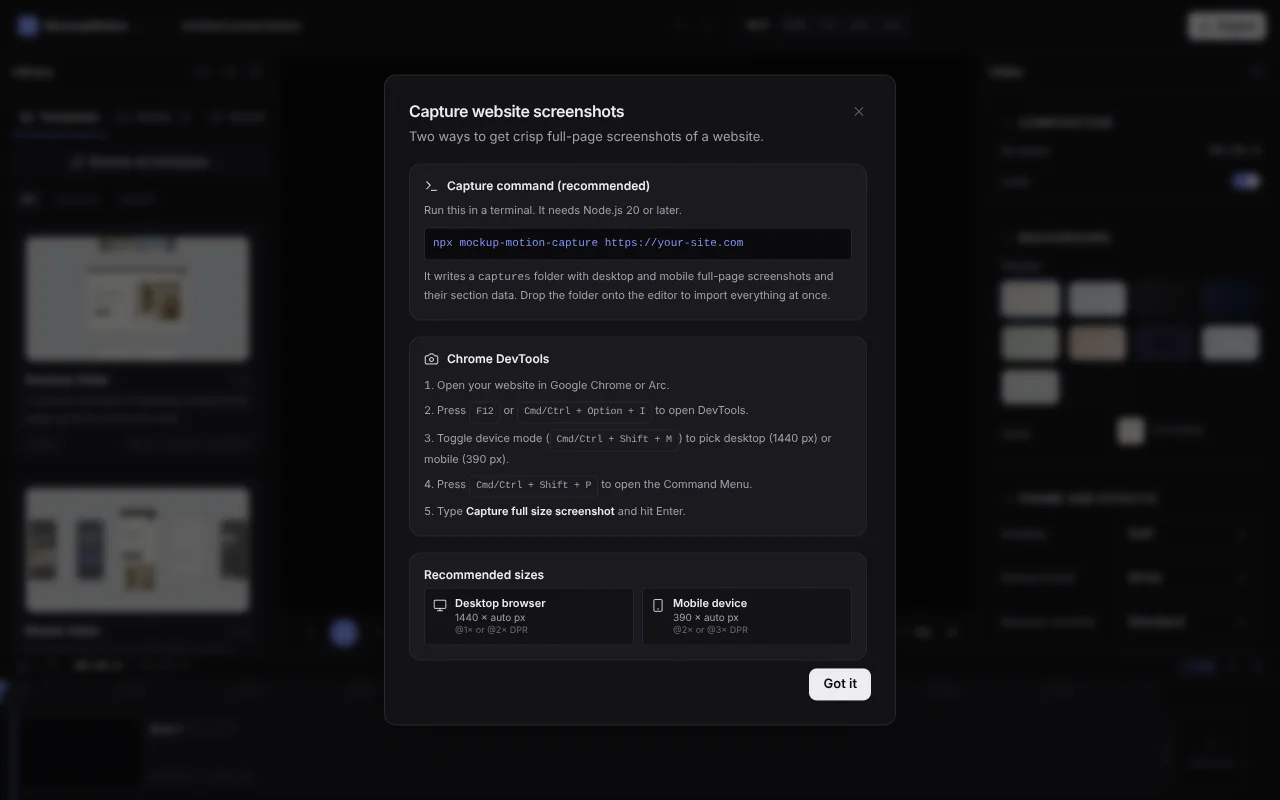
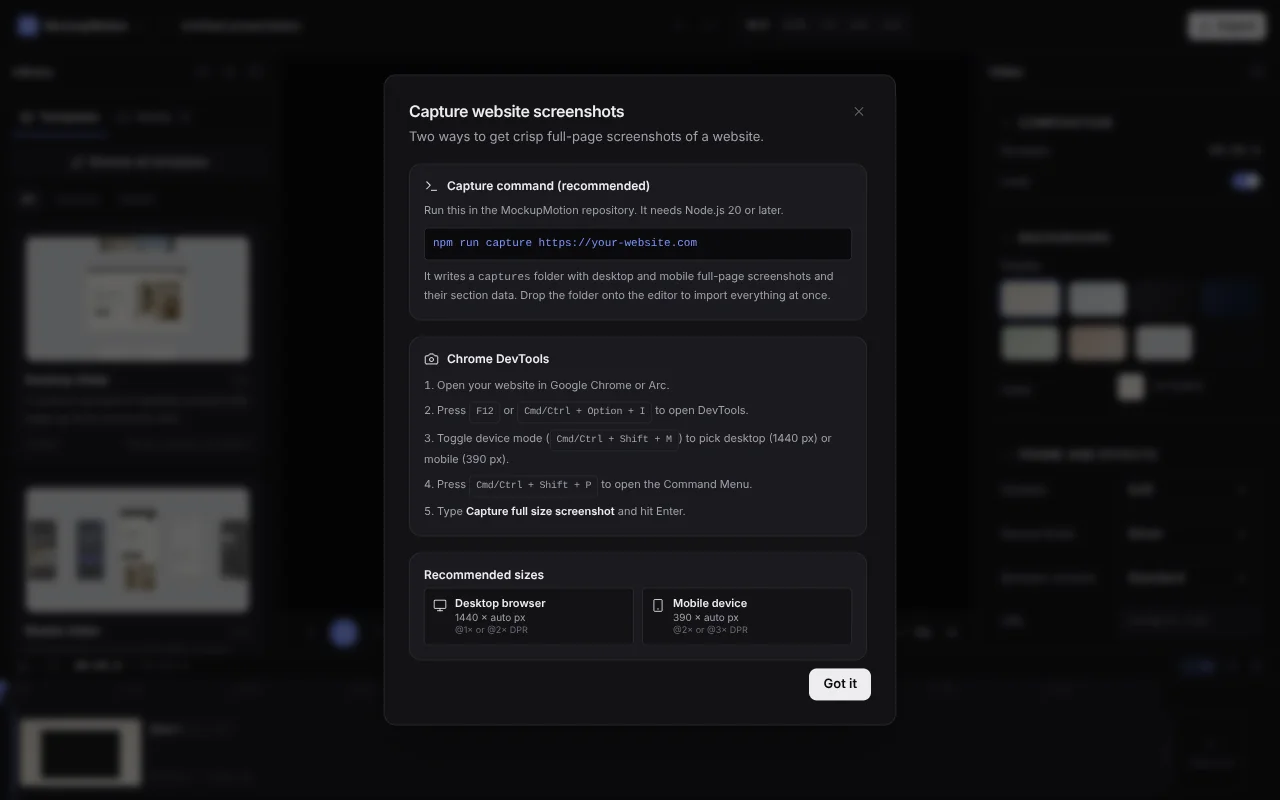
Capture: use npm run capture; publishing is deferred
The owner decided not to publish the package for now (personal use). The
capture dialog shows npm run capture, run from the repository, and nothing
claims npx mockup-motion-capture works today. The package README keeps the
publish steps under "Publishing (not done yet)".

Claude-Session: https://claude.ai/code/session_01JKdPCagifuYUcVoTBFb9du

diff --git a/src/editor/dialogs/CaptureHelpModal.tsx b/src/editor/dialogs/CaptureHelpModal.tsx
@@ -23,10 +23,10 @@ export const CaptureHelpModal: React.FC<CaptureHelpModalProps> = ({ open, onOpen
               <span>Capture command (recommended)</span>
             </div>
             <p className="text-[11px] text-[var(--color-text-2)] leading-relaxed">
-              Run this in a terminal. It needs Node.js 20 or later.
+              Run this in the MockupMotion repository. It needs Node.js 20 or later.
             </p>
             <div className="p-2 rounded bg-black/60 font-mono text-[11px] text-[var(--color-accent)] select-all border border-[var(--color-line)]">
-              npx mockup-motion-capture https://your-site.com
+              npm run capture https://your-website.com
             </div>
             <p className="text-[11px] text-[var(--color-text-2)] leading-relaxed">
               It writes a <span className="font-mono">captures</span> folder with desktop and mobile

diff --git a/scripts/capture.ts b/scripts/capture.ts
@@ -1,7 +1,7 @@
 /**
- * The capture lives in the `mockup-motion-capture` package (packages/capture), which anyone can
- * run with `npx mockup-motion-capture <url>`. `npm run capture` runs the same package, and this
- * module re-exports it for the repo's scripts and tests.
+ * The capture lives in the `mockup-motion-capture` package (packages/capture). `npm run capture`
+ * runs it, and this module re-exports it for the repo's scripts and tests. The package isn't on
+ * npm yet; its README has the publish steps.
  */
 export {
   captureBaseNames,

diff --git a/src/assets/capture-json.ts b/src/assets/capture-json.ts
@@ -35,7 +35,7 @@ export function parseCaptureJson(name: string, text: string): CaptureJson {
   } catch {
     throw new Error(`${name}: this file isn't valid JSON.`);
   }
-  const notCapture = new Error(`${name}: this isn't a capture file from mockup-motion-capture.`);
+  const notCapture = new Error(`${name}: this isn't a capture file from npm run capture.`);
   if (!raw || typeof raw !== "object") throw notCapture;
   const r = raw as Record<string, unknown>;
   if (

diff --git a/tests/capture-json.test.ts b/tests/capture-json.test.ts
@@ -29,7 +29,7 @@ describe("capture JSON (Responsive Scroll R02)", () => {
       "bad.json: this file isn't valid JSON.",
     );
     expect(() => parseCaptureJson("other.json", '{"name":"x"}')).toThrow(
-      "other.json: this isn't a capture file from mockup-motion-capture.",
+      "other.json: this isn't a capture file from npm run capture.",
     );
   });
 

diff --git a/docs/plan/follow-ups.md b/docs/plan/follow-ups.md
@@ -67,6 +67,7 @@ PR links: [F00 #2](https://github.com/jesseleechan/mockup-motion/pull/2), [F03 #
 | Vite warns in dev that the demo JSON under `public/demo/` (`manifest.json`, `sections*.json`) can't be imported from JavaScript; dev and build work. Moving the imported JSON under `src/` would silence it.                                            | Responsive Scroll R02 (#52) |
 | The mobile capture files are always named `@2x` (`<host>-mobile-390@2x.png`), even with `--scale 3`. The JSON's `scale` is right, but the name misleads. Naming them after the real scale changes the capture format the editor and the demo files use. | Capture CLI                 |
 | `packages/capture/package.json` has no `license`, and neither does the repo. Choose one before publishing `mockup-motion-capture`.                                                                                                                      | Capture CLI                 |
+| Publishing `mockup-motion-capture` to npm is deferred (owner, 19 Oct 2026: personal use for now); the package is ready, see packages/capture/README.md.                                                                                                 | Capture CLI                 |
 
 ## Tests and CI
 
@@ -81,7 +82,7 @@ PR links: [F00 #2](https://github.com/jesseleechan/mockup-motion/pull/2), [F03 #
 | Safari and Firefox have never been run. They are out of scope for now (decided 7 Oct 2026); the steps are in [`browser-matrix.md`](browser-matrix.md).                                                                                                                                                                                                                                                                                                                                                                                                                                                                                                                                                                                                                                                                                                                                                                                                                                                                                                                                                                                                                                                                                                                                                                          | F14                                                                |
 | The last two quality bar §8 items are not verified for any template: no visible pop over 3 loops, and no banding or shimmer in a 1080p export. See [`quality-review.md`](quality-review.md).                                                                                                                                                                                                                                                                                                                                                                                                                                                                                                                                                                                                                                                                                                                                                                                                                                                                                                                                                                                                                                                                                                                                    | F14                                                                |
 | `main` is not Prettier-clean: `npm run format` rewrites 18 files under `src/` and `tests/` (for example `tests/sections.test.ts`), and CI doesn't run `npm run format:check`.                                                                                                                                                                                                                                                                                                                                                                                                                                                                                                                                                                                                                                                                                                                                                                                                                                                                                                                                                                                                                                                                                                                                                   | P00 ([#22](https://github.com/jesseleechan/mockup-motion/pull/22)) |
-| The e2e suite is 169 tests in 31 files (`npx playwright test --list --project=chromium`, 19 Oct 2026), about 43 runner-minutes per full run. Audit it against CLAUDE.md "Tests": remove tests that duplicate unit tests or visual stills, fold the old wave specs (`wave5`, `spike`, `polish`) into the specs they belong to, and read template counts from the registry instead of literals (`assets.spec.ts`: "all 5 built-in templates are lab fixtures"). The owner approves the list of removals before any test is deleted.                                                                                                                                                                                                                                                                                                                                                                                                                                                                                                                                                                                                                                                                                                                                                                                                                                                | Test rules (19 Oct 2026)                                           |
+| The e2e suite is 169 tests in 31 files (`npx playwright test --list --project=chromium`, 19 Oct 2026), about 43 runner-minutes per full run. Audit it against CLAUDE.md "Tests": remove tests that duplicate unit tests or visual stills, fold the old wave specs (`wave5`, `spike`, `polish`) into the specs they belong to, and read template counts from the registry instead of literals (`assets.spec.ts`: "all 5 built-in templates are lab fixtures"). The owner approves the list of removals before any test is deleted.                                                                                                                                                                                                                                                                                                                                                                                                                                                                                                                                                                                                                                                                                                                                                                                               | Test rules (19 Oct 2026)                                           |
 
 ## Done since it was reported
 

diff --git a/packages/capture/README.md b/packages/capture/README.md
@@ -2,11 +2,13 @@
 
 Captures a website for [MockupMotion](https://github.com/jesseleechan/mockup-motion): desktop and mobile full-page screenshots, each with a JSON file of where the page's sections are. MockupMotion uses the section data to frame and scroll the screenshots.
 
+From the MockupMotion repository:
+
 ```sh
-npx mockup-motion-capture https://your-site.com
+npm run capture -- https://your-site.com
 ```
 
-It needs Node 20 or later and no other setup when Chrome or Edge is installed.
+It needs Node 20 or later and no other setup when Chrome or Edge is installed. The package isn't published to npm yet (see [Publishing](#publishing-not-done-yet)).
 
 ## Output
 
@@ -42,7 +44,7 @@ Drop the `captures` folder onto the editor. The screenshots are imported with th
 ## Options
 
 ```
-npx mockup-motion-capture <url> [options]
+npm run capture -- <url> [options]
 
   --out <dir>           Output directory (default: captures/)
   --desktop <width>     Desktop viewport width (default: 1440)
@@ -74,16 +76,16 @@ npx playwright@<version> install chromium
 To use a specific Chromium binary, set `PW_CHROMIUM_EXECUTABLE` to its path:
 
 ```sh
-PW_CHROMIUM_EXECUTABLE=/path/to/chrome npx mockup-motion-capture https://your-site.com
+PW_CHROMIUM_EXECUTABLE=/path/to/chrome npm run capture -- https://your-site.com
 ```
 
-## Publishing
+## Publishing (not done yet)
 
-For the package owner. These steps publish from `packages/capture` in the MockupMotion repo.
+The package isn't on npm: publishing is deferred while MockupMotion is for personal use. Once it is published, anyone can run `npx mockup-motion-capture https://your-site.com` without the repo. These steps publish from `packages/capture` in the MockupMotion repo.
 
 1. Create an account on [npmjs.com](https://www.npmjs.com/signup) if you don't have one, and turn on two-factor authentication.
 2. Log in from the terminal: `npm login`, then check with `npm whoami`.
-3. Check that the name is still free: `npm view mockup-motion-capture`. A 404 means it is free. If it's taken, change `name` in `package.json` (and the `bin` name, this README and the editor's capture dialog in `src/editor/dialogs/CaptureHelpModal.tsx`).
+3. Check that the name is still free: `npm view mockup-motion-capture`. A 404 means it is free. If it's taken, change `name` in `package.json` (and the `bin` name, this README and the editor's capture dialog in `src/editor/dialogs/CaptureHelpModal.tsx`, which can then show the `npx` line).
 4. Go to the package: `cd packages/capture`.
 5. Set the version. The first release can stay at `0.1.0`; later releases bump it with `npm version patch` (or `minor`, `major`).
 6. Look at what will ship: `npm pack --dry-run`. It should list `bin/`, `src/`, `README.md` and `package.json` only.

diff --git a/README.md b/README.md
@@ -17,13 +17,13 @@ Open http://localhost:3000.
 
 ## Capture screenshots
 
-Good frames start with a full-page screenshot. Anyone can capture one with Node 20 or later, without this repo:
+Good frames start with a full-page screenshot. From this repo, with Node 20 or later:
 
 ```sh
-npx mockup-motion-capture https://example.com --unstick
+npm run capture -- https://example.com --unstick
 ```
 
-In this repo, `npm run capture -- https://example.com --unstick` runs the same command (`packages/capture`, see its [README](packages/capture/README.md)). Either one writes a desktop capture (1440 px wide) and a mobile capture (390 px wide) to `captures/`, both at 2× by default. Each has a first-viewport PNG, a full-page PNG and a JSON file with the page's section positions. `--unstick` flattens sticky and fixed headers so they don't repeat down the full-page capture. Run it with `--help` for the other options (`--out`, `--scale`, `--mode`, `--hide`, `--wait`). You can also use the browser's full-page screenshot in DevTools.
+It writes a desktop capture (1440 px wide) and a mobile capture (390 px wide) to `captures/`, both at 2× by default. Each has a first-viewport PNG, a full-page PNG and a JSON file with the page's section positions. Drop the `captures` folder onto the editor to import them all at once. `--unstick` flattens sticky and fixed headers so they don't repeat down the full-page capture. Run it with `--help` for the other options (`--out`, `--scale`, `--mode`, `--hide`, `--wait`). The capture code is a small package in `packages/capture` (see its [README](packages/capture/README.md)); it isn't published to npm. You can also use the browser's full-page screenshot in DevTools.
 
 `npm run demo:capture` rebuilds the built-in demo captures from `demo-sites/`.
 
